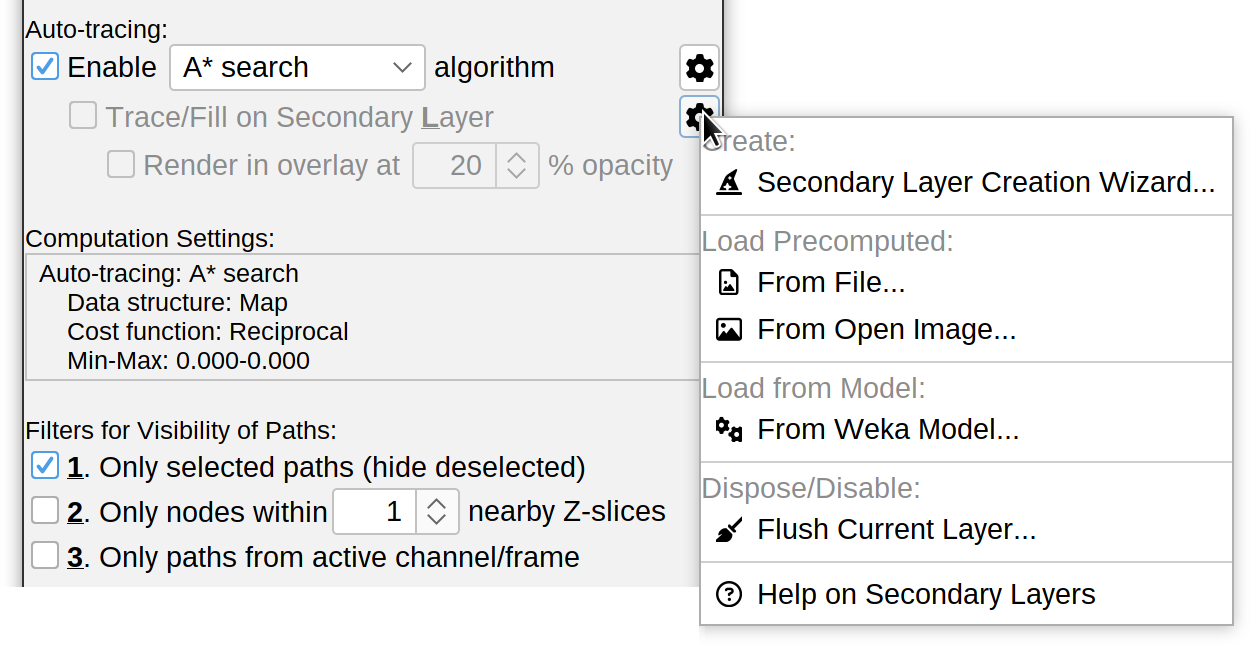
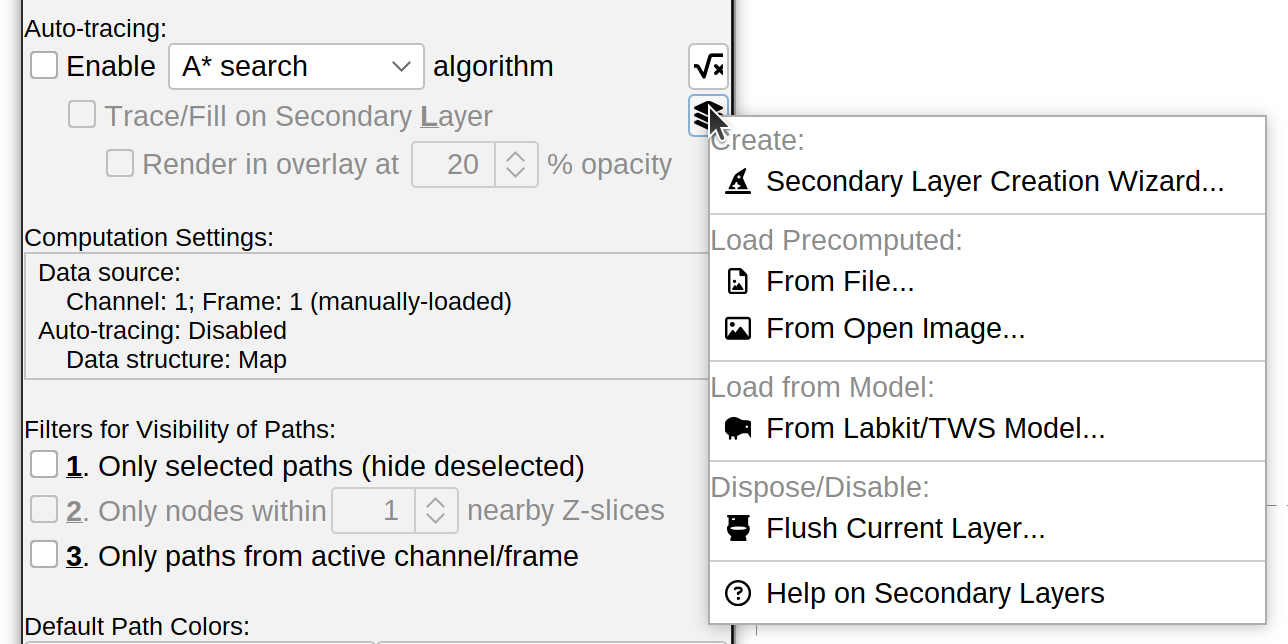
SNT: update menu structure & misc

Changed region(s): [[0.0, 0.0, 0.9976, 1.0]]

diff --git a/_pages/plugins/snt/analysis.md b/_pages/plugins/snt/analysis.md
@@ -10,12 +10,13 @@ tags: snt,reconstruction,tracing,arbor,neuron,morphometry,dendrite,axon,neuroana
 ---
 
 # Measurements
+{% include img align="right" name="Measurements dialog" src="/media/plugins/snt/snt-measurements-prompt.png" caption="The measurements dialog features options for searching and selecting metrics, renderer measured cells, and summarize existing measurements. An offline guide is also accessible through the <i>Gear</i> menu." %}
 
-SNT provides a couple ways to measure reconstructions. To measure complete cells use {% include bc path='Analysis|Measure...'%} in the main SNT dialog (or {% include bc path='Analyze & Measure'%} in Reconstruction Viewer). A simplified _Quick Measurements_ variant of this command also exists, in which common metrics are immediately retrieved using default settings. To get measurements only on a select group of Paths, first select or filter for the Paths you want to measure in the Path Manager, then use the commands in the Path Manager's {% include bc path='Analyze|Measurements'%} menu.
+SNT provides a couple ways to measure reconstructions. To measure complete cells use {% include bc path='Analysis|Measure...'%} in the main SNT dialog (or {% include bc path='Analyze & Measure| '%} in Reconstruction Viewer). To get measurements only on a select group of Paths, first select or filter for the Paths you want to measure in the Path Manager, then use the commands in the Path Manager's {% include bc path='Analyze|Measurements'%} menu.
 
-{% include img align="center" name="Measurements dialog" src="/media/plugins/snt/snt-measurements-prompt.png" caption="The measurements dialog features an offline guide accessible through the <i>Gear</i> menu." %}
+The reason for distinguishing between branch-based (i.e., cell-based) and path-based measurements is flexibility:  Path-based measurements can be performed on any structures, even those with loops, while branch-based measurements require the structure to be a [graph-theoretic tree](#graph-based-analysis). The bulk of SNT measurements is described in [Metrics](/plugins/snt/metrics).  Measurements available in the GUI are typically single-value metrics. Many others measurements are available via [scripting](/plugins/snt/scripting).
 
-The reason for distinguish between branch-based (i.e., cell-based) and path-based measurements is flexibility:  Path-based measurements can be performed on any structures, even those with loops, while branch-based measurements require the structure to be a [graph-theoretic tree](#graph-based-analysis). The bulk of SNT measurements is described in [Metrics](/plugins/snt/metrics).  Measurements available in the GUI are typically single-value metrics. Many others measurements are available via [scripting](/plugins/snt/scripting).
+A convenience _Quick Measurements_ command also exists ( {% include bc path='Analysis| '%} menu in the main SNT dialog (or {% include bc path='Analyze & Measure| '%} in Reconstruction Viewer), in which common metrics are immediately retrieved using default settings without prompts.
 
 Batch measurements of reconstructions can be accomplished via scripting. See, e.g., the [bundled template script](/plugins/snt/scripting#bundled-templates) *Measure\_Multiple\_Files.py*, and related batch scripts for examples.
 
@@ -31,45 +32,6 @@ SNT assembles comparison reports and simple statistical reports (two-sample t-te
 # Convex Hull Analysis
 _Convex hull_ commands (in SNT  main dialog, [Rec. viewer](/plugins/snt/reconstruction-viewer) and [Rec. plotter](/plugins/snt/manual#plotter)) compute the 2D or 3D convex hull of a reconstruction (i.e., the smallest convex polygon/polyhedron that contains the nodes of its paths). Convex hull measurements are defined in [Metrics](/plugins/snt/metrics#convex-hull-boundary-size).
 
-# Brain Area Analysis
-See [Graph-based Analysis](#graph-based-analysis).
-
-<span id="dendrogram-viewer"></span>
-# Graph-based Analysis
-Analyses based on [graph-theory](https://en.wikipedia.org/wiki/Tree_(graph_theory)) are better performed via the [scripting](/plugins/snt/scripting). However, SNT features a quite-capable _Graph Viewer_ that has many built-in options for handling graph objects. 
-
-The viewer provides controls for orientation, zoom level, panning, vertex editing and traversal as well as options to customize the display vertices (shape and labels) and edges (shape and weight labels). Basic support for themes (including _dark_, _light_ and _formal_) are also supported. The_Graph Viewer_ canvas may be exported in several file formats, including HTML, PNG and SVG.
-
-Typically, the most common types of graphs handled by _Graph Viewer_ are:
-
- - **Dendrograms**: {% include wikipedia title="Dendrogram" %}s can be obtained from single rooted tree structure, and provide a high-level overview of neurite branching topology. In the GUI, dendrograms can be created from {% include bc path='Utilities|Create Dendrogram'%} in the main SNT dialog or {% include bc path='Analyze &amp; Measure|Create Dendrogram'%} in [Reconstruction Viewer](/plugins/snt/reconstruction-viewer).
-
- - **Annotation Graphs** These rely on brain annotations (i.e., neuropil labels) and are typically used to summarize projectomes or relationships between brain areas, including ferris-wheel diagrams. Note that annotation graphs can be generated for a single cell or groups of cells.
-
-{% include gallery align="fill" content=
-"
-/media/plugins/snt/graph-viewer-dendrogram-simple.png | Dendrogram of a neuronal tree (_Toy neuron_ demo dataset) under the _vertical hierarchical_ layout. Edges depict branch length (µm). Vertices depict the root node (1), branch-, and end- points.
-/media/plugins/snt/graph-viewer-dendrogram-color-coded.png | Dendrogram of a neuronal tree (_Toy neuron_ demo dataset) color-coded by edge weight, i.e., branch length (µm), under the default layout (_vertical tree_).
-/media/plugins/snt/graph-viewer-ferris-wheel.png | Ferris-wheel diagram for a group of MouseLight PT-neurons (medulla-projecting) located in the secondary motor cortex (MOs, center vertex). Outer vertices depict target areas innervated by the cells' axons (automatically grouped by ontology). Edges encode axonal cable length (µm).
-"
-%}
-
-Two other type of _Brain Area Analysis_ visualizations relying on graph-based analysis (but not _Graph Viewer_) include boxplots and Sankey (flow) diagrams reporting innervation across brain areas/neuropil regions:
-
-{% include gallery align="fill" content=
-"
-/media/plugins/snt/sankey-flow-plot-with-tooltip.png | Flow-plot (Sankey diagram) for two groups of MouseLight PT-neurons: Medulla-projecting (MY Proj.) and Thalamus-projecting (TH Proj.) _Flows_ depict axonal cable length (µm) at target areas (colored using the default ontology color-scheme adopted by the Allen Mouse Brain Common Coordinate Framework, CCFv3).
-/media/plugins/snt/brain-analysis-group-boxplot.png | The same flow-plot data in boxplot format (see *Flow and Ferris-Wheel Diagrams Demo* script)
-/media/plugins/snt/brain-analysis-combined-boxplot.png | *Analysis › Brain Area Analysis...* histogram in which frequencies of a particular morphometric trait are retrieved across brain areas (neuropil labels). In this example, *No. of tips* was retrieved for the four cells in the *MouseLight dendrites* demo dataset (*File › Load Demo Dataset...*)
-"
-%}
-
-Ultimately, fine-grained programmatic control over SNT's Graph objects is achieved via scripting. Relevant resources:
-
-- [JGraphT](https://jgrapht.org/): The underlying library handling graph theory data structures and algorithms with [JAVA](https://jgrapht.org/javadoc/) and [Python](https://pypi.org/project/jgrapht/) APIs
-- [SNT graph package](https://javadoc.scijava.org/SNT/index.html?sc/fiji/snt/analysis/graph/package-summary.html): High-level tools for graph creation within SNT
-- *SNT Demo Scripts*: See e.g., *Graph\_Analysis.py* and *Flow\_and\_Ferris\-Wheel\_Diagrams\_Demo.groovy*, two [SNT demo scripts](/plugins/snt/scripting#snt-scripts)
-- *Python notebooks*: For [pyimagej](/scripting/pyimagej) examples, have a look at the *Hemisphere Analysis* [notebook](/plugins/snt/scripting#python-notebooks)
 
 # Sholl Analysis
 
@@ -116,6 +78,7 @@ Note that plots and tables can be directly saved to disk by selecting _Save_ and
 
 {% include img align="center" src="/media/plugins/snt/sholl-analysis-outputs.png" caption="Overview of Sholl analysis outputs: Linear and log-log profile (Sholl decay calculation), *detailed* and *summary* tables. Note that 'traditional' plots are obtained by disabling curve-fitting altogether."%}
 
+
 # Strahler Analysis
 
 {% capture strahler%}
@@ -132,12 +95,74 @@ _Strahler Analysis (Image)_ has a dedicated [documentation page](/plugins/strahl
 To conduct [Strahler Analysis](/plugins/strahler-analysis) on the current contents of the Path Manager, choose the {% include bc path='Analysis|Strahler Analysis...'%} in the main SNT dialog. This command will output the results of the analysis as a table and plot(s). These figures contain morphometric statistics of branches at each Horton-Strahler number. Refer to the _Strahler Analysis (Image)_ [documentation](/plugins/strahler-analysis) for details on the classification.
 {% include img align="center" src="/media/plugins/snt/strahler-analysis-from-reconstructions.png" caption="Strahler Analysis detailed output."%}
 
-# Path Order Analysis
-Found at {% include bc path='Analysis|Path Order Analysis'%} in the main SNT dialog, this option is a variant of Strahler with the following differences:
 
+# Path-based Analysis
+Path-based analyses accept _any_ traced structure (e.g., disconnected paths, paths associated with different cells, etc.), even those with loops. While most SNT measurements require traced structures to be valid mathematical trees, path-based measurements have no topological constraints. There are two commands in this category: [Path Order Analysis](#path-order-analysis), and [Path Properties: Export CSV...](#path-properties-export-csv).
+
+### Path Order Analysis
+This command ({% include bc path='Analysis|Path-based|Path Order Analysis'%} in the main SNT dialog) is a variant of [Strahler](strahler-analysis) with the following differences:
 - Classification is based on _Path Order_: Paths are the scope of classification (not branches)
 - Ranking of orders is reversed relatively to Strahler analysis (reversed Strahler orders), with primary paths having _order 1_ and terminal paths having the highest order
-- Classification accepts _any_ structure: Since classification is path-based, there are no topological constrains in the analysis. While Strahler requires structures to be valid mathematical trees, Path order analysis can be performed on any structures, even those with loops
+- Any collection of paths can be analyzed without validating into a formal tree
+
+### Path Properties: Export CSV...
+This command ({% include bc path='Analysis|Path-based|Path Properties: Export CSV...'%}) exports path details morphometrics, neurite compartments, linkage relationships to other Paths, start and end coordinates, etc.) to a spreadsheet file.
+
+# Atlas-based Analysis
+Atlas-based analyses require reconstruction nodes to be tagged with neuropil IDs (atlas labels) (e.g., ). Broadly, there are two types of analyses: [Brain Area Frequencies](#brain-area-frequencies) and [Annotations Graphs](#annotations-graphs).
+
+
+### Brain Area Frequencies
+This command ({% include bc path='Analysis|Atlas-based| '%} menu in main dialog, or % include bc path='Analyze & Measure| '%} menu in Reconstruction Viewer) summarizes projection patterns across brain areas by computing frequency histograms of how often a morphometric trait (no. of tips, cable length, etc.) occurs across brain regions (neuropil labels). Such histograms can be obtained for groups of cells, isolated cells, or parts thereof.
+
+{% include gallery align="fill" content=
+"
+/media/plugins/snt/brain-analysis-combined-histograms.png | *Brain Area Frequencies...* in which *No. of tips* was tabulated across the motor cortext subregions associated with the four cells in the *File › Load Demo Dataset...  › MouseLight dendrites* demo dataset
+/media/plugins/snt/snt-brain-analysis-ipsi-contra.png | *Brain Area Frequencies...* of a single cell (*Hemisphere Analysis* [notebook](https://github.com/morphonets/SNT/tree/main/notebooks)) in which *Cable length* of axonal projections was tabulated across ipsilateral and contralateral hemisphere regions. Note how projections to the Ectorhinal area (ECT) are exclusively ipsilateral
+"
+%}
+
+
+### Annotations Graphs
+Two types of _Annotations Graphs_ include boxplots and Sankey (flow) diagrams reporting innervation across brain areas/neuropil regions:
+
+{% include gallery align="fill" content=
+"
+/media/plugins/snt/sankey-flow-plot-with-tooltip.png | Flow-plot (Sankey diagram) for two groups of MouseLight PT-neurons: Medulla-projecting (MY Proj.) and Thalamus-projecting (TH Proj.) _Flows_ depict axonal cable length (µm) at target areas (colored using the default ontology color-scheme adopted by the Allen Mouse Brain Common Coordinate Framework, CCFv3).
+/media/plugins/snt/brain-analysis-group-boxplot.png | The same flow-plot data in boxplot format (see *Flow and Ferris-Wheel Diagrams Demo* script)
+"
+%}
+
+Other types of _Annotations Graphs_ are described in [Graph-based Analysis](#graph-based-analysis).
+
+
+<span id="dendrogram-viewer"></span>
+# Graph-based Analysis
+Analyses based on [graph-theory](https://en.wikipedia.org/wiki/Tree_(graph_theory)) are better performed via the [scripting](/plugins/snt/scripting). However, SNT features a quite-capable _Graph Viewer_ that has many built-in options for handling graph objects. 
+
+The viewer provides controls for orientation, zoom level, panning, vertex editing and traversal as well as options to customize the display vertices (shape and labels) and edges (shape and weight labels). Basic support for themes (including _dark_, _light_ and _formal_) are also supported. The_Graph Viewer_ canvas may be exported in several file formats, including HTML, PNG and SVG.
+
+Typically, the most common types of graphs handled by _Graph Viewer_ are:
+
+ - **Dendrograms**: {% include wikipedia title="Dendrogram" %}s can be obtained from single rooted tree structure, and provide a high-level overview of neurite branching topology. In the GUI, dendrograms can be created from {% include bc path='Utilities|Create Dendrogram'%} in the main SNT dialog or {% include bc path='Analyze &amp; Measure|Create Dendrogram'%} in [Reconstruction Viewer](/plugins/snt/reconstruction-viewer).
+
+ - **Annotation Graphs** These rely on brain annotations (i.e., neuropil labels) and are typically used to summarize projectomes or relationships between brain areas, including ferris-wheel diagrams. Annotation graphs can be generated for a single cell or groups of cells.
+
+{% include gallery align="fill" content=
+"
+/media/plugins/snt/graph-viewer-dendrogram-simple.png | Dendrogram of a neuronal tree (_Toy neuron_ demo dataset) under the _vertical hierarchical_ layout. Edges depict branch length (µm). Vertices depict the root node (1), branch-, and end- points.
+/media/plugins/snt/graph-viewer-dendrogram-color-coded.png | Dendrogram of a neuronal tree (_Toy neuron_ demo dataset) color-coded by edge weight, i.e., branch length (µm), under the default layout (_vertical tree_).
+/media/plugins/snt/graph-viewer-ferris-wheel.png | Ferris-wheel diagram for a group of MouseLight PT-neurons (medulla-projecting) located in the secondary motor cortex (MOs, center vertex). Outer vertices depict target areas innervated by the cells' axons (automatically grouped by ontology). Edges encode axonal cable length (µm).
+"
+%}
+
+Ultimately, fine-grained programmatic control over SNT's Graph objects is achieved via scripting. Relevant resources:
+
+- [JGraphT](https://jgrapht.org/): The underlying library handling graph theory data structures and algorithms with [JAVA](https://jgrapht.org/javadoc/) and [Python](https://pypi.org/project/jgrapht/) APIs
+- [SNT graph package](https://javadoc.scijava.org/SNT/index.html?sc/fiji/snt/analysis/graph/package-summary.html): High-level tools for graph creation within SNT
+- *SNT Demo Scripts*: See e.g., *Graph\_Analysis.py* and *Flow\_and\_Ferris\-Wheel\_Diagrams\_Demo.groovy*, two [SNT demo scripts](/plugins/snt/scripting#snt-scripts)
+- *Python notebooks*: For [pyimagej](/scripting/pyimagej) examples, have a look at the *Hemisphere Analysis* [notebook](/plugins/snt/scripting#python-notebooks)
+
 
 # Persistence Homology
 <img align="right" width="300px" src="/media/plugins/snt/snt-persistence-landscape.png" title="Visualization of a persistence landscape for ML neuron #AA0039" />
@@ -156,7 +181,7 @@ SNT implements TMD and TMD variants by supporting several descriptor functions:
 
 In addition, SNT also implements descriptors based on persistence landscapes, as described in Bubenik, P. (2012). Statistical topological data analysis using persistence landscapes. ArXiv. [doi:10.48550/ARXIV.1207.6437](https://doi.org/10.48550/ARXIV.1207.6437).
 
-Currently, _basic_ persistence homology descriptors can be computed using {% include bc path='Analysis|Persistence Homology...'%} (main interface), or {% include bc path='Analyze & Measure|Persistence Homology...'%} in [Rec. viewer](/plugins/snt/reconstruction-viewer). Complete extraction of descriptors can be obtained with [scripting](/plugins/snt/scripting).  See e.g.,  the *Persistence Landscape* [notebook](https://github.com/morphonets/SNT/blob/main/notebooks/).
+Currently, _basic_ persistence homology descriptors can be computed using UI commands {% include bc path='Analysis|Persistence Homology...'%} (main interface), or {% include bc path='Analyze & Measure|Persistence Homology...'%} in [Rec. viewer](/plugins/snt/reconstruction-viewer). Complete extraction of descriptors can be obtained with [scripting](/plugins/snt/scripting).  See e.g.,  the *Persistence Landscape* [notebook](https://github.com/morphonets/SNT/blob/main/notebooks/).
 
 # Comparing Reconstructions
 

diff --git a/_pages/plugins/snt/manual.md b/_pages/plugins/snt/manual.md
@@ -108,21 +108,18 @@ Resets all preferences and restarts SNT using default options.
 
 ### Analysis ›
 
+#### Atlas-based ›
+See [Atlas-based Analysis](/plugins/snt/analysis#atlas-based-analysis).
+
+#### Path-based ›
+See [Path-based Analysis](/plugins/snt/analysis#path-based-analysis).
+
 #### Convex Hull
+See [Convex hull Analysis](/plugins/snt/analysis#convex-hull-analysis).
 
-See [Analysis › Convex hull Analysis](/plugins/snt/analysis#convex-hull-analysis).
+#### Persistence Homology
+See [Persistence Homology Analysis](/plugins/snt/analysis#persistence-homology).
 
-#### Path Order Analysis
-
-See [Analysis › Path Order Analysis](/plugins/snt/analysis#path-order-analysis).
-
-#### Path Properties: Export CSV...
-
-Allows export of information regarding individual Paths (morphometrics, neurite compartments, linkage relationships to other Paths, start and end coordinates, etc.).
-
-#### Brain Area Analysis
-
-Summarizes projection patterns across brain areas. See [Analysis › Graph-based Analysis](/plugins/snt/analysis#graph-based-analysis) for details.
 
 #### Sholl Analysis.../Sholl Analysis (by Focal Point)...
 
@@ -154,32 +151,10 @@ The Command Palette is the fastest way to access actions and discover their resp
 
 
 #### Compare Reconstructions/Cell Groups...
-
 Allows morphometric comparisons of two single reconstruction files or multiple groups of reconstruction files (including statistical reports and two-sample t-test/one-way ANOVA analysis). Color-coded montages of analyzed groups can also be generated. See [Comparing Reconstructions](/plugins/snt/analysis#comparing-reconstructions) for details.
 
 
-<span id="plotter"></span>
-
-#### Reconstruction Plotter
-
-<img align="right" src="/media/plugins/snt/snt-reconstruction-plotter.png" title="Reconstruction Plotter overview" width="50%" alt="Reconstruction Plotter overview" />
-
-_Reconstruction Plotter_ is a whole-purpose 2D viewer for neuronal reconstructions by plotting 2D projections of traced paths. Its major ability is to produce publication-quality (vector-based) renditions of neuronal reconstructions. A control panel  allows for adjustment of the spatial orientation of the tracing. By default, the plot is monochrome. If paths are assigned color tags, or the structure has been color-coded  use {% include bc path='Actions|Render final (colorized) plot' %} from the control panel to render a (static) plot with color-mapped paths, with the final orientation matching that of the dynamic plot. Features (accessed via plotter's contextual menu) include:
-
-- Dark/light theme
-- Costumization controls for font, axes, etc. 
-- Export as SVG (vector graphics)
-- Color legends when color mappings are present
-- Can be combined in multi-panel viewers (mainly via scripting)
-
-
-#### Create Annotation Graph...
-
-See [Analysis › Graph-based Analysis](/plugins/snt/analysis#graph-based-analysis) for details.
-
-
 #### Create Dendrogram
-
 Generates a Dendrogram plot of a connected component (i.e, one rooted tree structure in the Path Manager). See [Analysis › Graph-based Analysis](/plugins/snt/analysis#graph-based-analysis) for details.
 
 
@@ -192,6 +167,23 @@ Creates multi-panel figures from chosen reconstructions, according to the follow
 - **Type**: Wether the illustration should be a bitmap image (typically rendered at 1micron per pixel); a scalable graphics 2D image (see [Reconstruction Plotter](#reconstruction-plotter)), or an interactive 3D scene (see [Reconstruction Viewer](/plugins/snt/reconstruction-viewer))
 - **View**: The display plane of the scene: XY (the default), XZ, or ZY. This option pertains only to static 2D scenes
 - **Positioning**: Whether reconstructions should be rendered under theur original coordinates, or whether every cell in the scene should be translatated to a common xyz coordinate (0,0,0) 
+
+
+<span id="plotter"></span>
+
+#### Reconstruction Plotter
+
+_Reconstruction Plotter_ is a whole-purpose 2D viewer for neuronal reconstructions by plotting 2D projections of traced paths. Its major ability is to produce publication-quality (vector-based) renditions of neuronal reconstructions. A control panel  allows for adjustment of the spatial orientation of the tracing. By default, the plot is monochrome. If paths are assigned color tags, or the structure has been color-coded  use {% include bc path='Actions|Render final (colorized) plot' %} from the control panel to render a (static) plot with color-mapped paths, with the final orientation matching that of the dynamic plot. Features (accessed via plotter's contextual menu) include:
+<img align="right" src="/media/plugins/snt/snt-reconstruction-plotter.png" title="Reconstruction Plotter overview" width="50%" alt="Reconstruction Plotter overview" />
+- Dark/light theme
+- Costumization controls for font, axes, etc. 
+- Export as SVG (vector graphics)
+- Color legends when color mappings are present
+- Can be combined in multi-panel viewers (mainly via scripting)
+
+#### Apply 3D Drift Corrections...
+A convenience alias for [Correct 3D Drift](/plugins/correct-3d-drift), which can correct abrupt displacements as well as slow drifts in video timelapses. It is recommended that you run _Correct 3D Drift_ on large time-lapse videos _before_ loading the image in SNT to avoid running out of RAM. See [Time-lapse analysis walkthrough](/plugins/snt/step-by-step-instructions#time-lapse-analysis) for details.
+
 
 #### Autotrace Segmented Image...
 
@@ -311,7 +303,7 @@ The wizard needs two types of information from the user: The type of filtering o
   
   - **Gaussian blur** Filter for noise removal, capable of gentle smoothing with some ability to preserve neurite edges, specially under small σ values.
 
-- **Scale(s)** Also known as _sigmas_ (σ). These should reflect average radii of the structures being traced. If smaller values are specified, the filter becomes more sensitive to noise. Larger values on the other hand, make the filtering operation less sensitive to local shape characteristics. There are two ways to select this values:
+- **Scale(s)** Also known as _sigma(s)_ (σ). These should reflect average radii of the structures being traced. If smaller values are specified, the filter becomes more sensitive to noise. Larger values on the other hand, make the filtering operation less sensitive to local shape characteristics. There are two ways to select this values:
   
   - **Select visually...**: The wizard will prompt you to click on a representative region of the image which has a meaningful structure. Once you click there, a preview palette is generated showing increasing values of σ (from top-left to bottom-right) applied to that region of the image. Select the suitable scales
   

diff --git a/_pages/plugins/snt/step-by-step-instructions.md b/_pages/plugins/snt/step-by-step-instructions.md
@@ -277,9 +277,9 @@ There are two demo datasets ({% include bc path='File|Load Demo Dataset...' %}) 
 {% endcapture %}
 {% include notice icon="info" content=timelapse-demo %}
 
-1. The first step is to ensure that the time-series is not affected by artifactual motion. Fiji features a host of registration tools to mitigate such artifacts. Arguably, one of the most intuitive of such tools is [Correct 3D Drift](/plugins/correct-3d-drift) because it can correct abrupt displacements as well as slow drifts. You can run it from Path Manager's {% include bc path='Analyze|Time-lapse Utilities|Apply 3D Drift Corrections...' %} if your image is small, but if your time-lapse video is rather large it is recommended that you run registration routines _before_ loading the image in SNT to avoid running out of RAM. The illustration below highligths the type of mitigation you should expect:
+1. The first step is to ensure that the time-series is not affected by artifactual motion. Fiji features a host of registration tools to mitigate such artifacts. Arguably, one of the most intuitive of such tools is [Correct 3D Drift](/plugins/correct-3d-drift) because it can correct abrupt displacements as well as slow drifts. You can run it using [Apply 3D Drift Corrections...](/plugins/snt/manual#apply-3d-drift-corrections) if your image is small, but if your time-lapse video is rather large it is recommended that you run registration routines _before_ loading the image in SNT to avoid running out of RAM. The illustration below highligths the type of mitigation you should expect:
 
- {% include img align="center" name="Drift correction" src="/media/plugins/snt/snt-timelapse-drift-correction.png" caption="**Mitigation of motion artifacts**. Left: Original time-lapse sequence (time projection). Right: Projection of the same time-lapse after 3D drift correction. Neurite displacements are color coded with warmer hues indicating higher motility (uncalibrated scale). Note how lateral motion of the soma and of the longest extending neurite (lower left) has been minimized." %}
+ {% include img align="center" name="Drift correction" src="/media/plugins/snt/snt-timelapse-drift-correction.png" caption="**Mitigation of motion artifacts**. Left: Projection of inter-frame differences across the original time-lapse sequence. Right: Inter-frame differences of the same time-lapse after 3D drift correction. Neurite displacements are color coded with warmer hues indicating higher motility. Note how lateral motion around the soma and along the longest extending neurite (lower left) has been minimized. Hue ramp has been scaled to the smallest (min) and largest (max) displacements in the sequence." %}
 
 2. Specify the first time-point to be traced using the [Data Source](/plugins/snt/manual#data-source) widget
 

diff --git a/_pages/plugins/snt/metrics.md b/_pages/plugins/snt/metrics.md
@@ -18,7 +18,7 @@ tags: snt,reconstruction,tracing,arbor,neuron,morphometry,dendrite,axon,neuroana
 E.g., when measuring  [Branch length](#branch-length) for a particular cell, it is possible to retrieve the length of the smallest branch (_Min_), the longest (_Max_), the average and standard deviation of all branch lengths (_Mean_ and _SD_), their total length (_Sum_), and number (_N_).
 <br>
 <br>
- Also, please note that some of the metrics described here have been ported from published literature including [L-measure](http://cng.gmu.edu:8080/Lm/help/index.htm): {% include citation doi='10.1038/nprot.2008.51' %}
+ Note that some of the metrics described here have been ported from published literature including [L-measure](http://cng.gmu.edu:8080/Lm/help/index.htm): {% include citation doi='10.1038/nprot.2008.51' %}
 {% endcapture %}
 {% include notice icon="info" content=text %}
 
@@ -94,7 +94,7 @@ The squared distance between nodes defining a branch or a Path. Alternative to _
 The sum of branch lengths of branches of highest Strahler order. Typically, these correspond to the most 'internal' branches of an arbor, in direct sequence from the root. Note that_Primary branches_ are _inner branches_ starting at the tree's root.
 
 ###### Length of longest shortest path
-Considering a [graph-theory tree](https://en.wikipedia.org/wiki/Tree_(graph_theory)), the _Length of longest shortest path_ corresponds to the [graph diameter](https://mathworld.wolfram.com/GraphDiameter.html) (longest graph geodesic). Note that this metric can only be computed for structures that are valid mathematical trees.
+Considering a [graph-theory tree](https://en.wikipedia.org/wiki/Tree_(graph_theory)), the _Length of longest shortest path_ corresponds to the [graph diameter](https://mathworld.wolfram.com/GraphDiameter.html) (also known as maximum geodesic, or longest graph geodesic). Note that this metric can only be computed for structures that are valid mathematical trees.
 
 ###### Length of primary branches
 The sum of branch lengths of primary (or root-associated) branches. Primary branches have origin in a tree's root, extending to the closest branch point or end-point, i.e., they are _inner branches_ starting at the root. Note that a primary branch can also be terminal.
